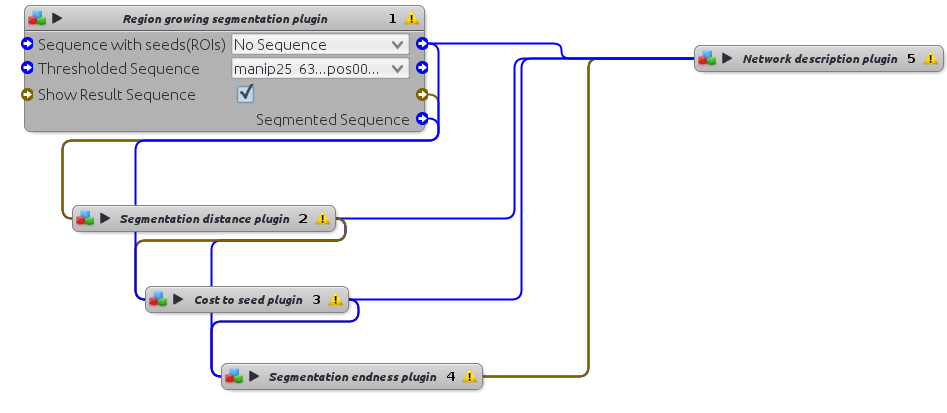
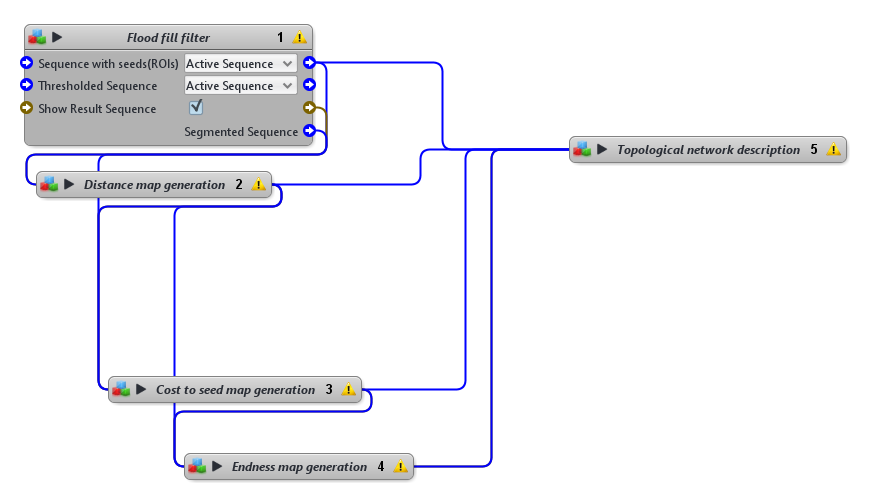
Class Renaming for better organization
Using Generator->GenerationPlugin naming pattern.

Changed region(s): [[0.0, 0.0, 1.0, 0.9588]]

diff --git a/Topological Network Description/src/plugins/danyfel80/topologicalnetworkdescription/TopologicalNetworkDescriptionFrameworkPlugin.java b/Topological Network Description/src/plugins/danyfel80/topologicalnetworkdescription/TopologicalNetworkDescriptionFrameworkPlugin.java
@@ -2,12 +2,12 @@ package plugins.danyfel80.topologicalnetworkdescription;
 
 import java.util.List;
 
-import algorithms.danyfel80.topologicalnetworkdescription.CostToSeedCalculator;
-import algorithms.danyfel80.topologicalnetworkdescription.EndnessCalculator;
-import algorithms.danyfel80.topologicalnetworkdescription.NetworkDescriptionConstructor;
-import algorithms.danyfel80.topologicalnetworkdescription.RegionGrowingSegmenter;
-import algorithms.danyfel80.topologicalnetworkdescription.SegmentDistanceCalcultator;
-import algorithms.danyfel80.topologicalnetworkdescription.Thresholder;
+import algorithms.danyfel80.topologicalnetworkdescription.CostToSeedMapGenerator;
+import algorithms.danyfel80.topologicalnetworkdescription.EndnessMapGenerator;
+import algorithms.danyfel80.topologicalnetworkdescription.TopologicalNetworkDescriptor;
+import algorithms.danyfel80.topologicalnetworkdescription.FloodFillFilter;
+import algorithms.danyfel80.topologicalnetworkdescription.DistanceMapGenerator;
+import algorithms.danyfel80.topologicalnetworkdescription.ThresholdingSegmenter;
 import icy.gui.dialog.MessageDialog;
 import icy.roi.ROI;
 import icy.sequence.Sequence;
@@ -23,7 +23,7 @@ import plugins.kernel.roi.roi2d.ROI2DPoint;
  * 
  * @author Daniel Felipe Gonzalez Obando
  */
-public class TopologicalNetworkDescription extends EzPlug {
+public class TopologicalNetworkDescriptionFrameworkPlugin extends EzPlug {
 
   private EzVarSequence sequenceIn                      = new EzVarSequence(
       "Sequence");
@@ -84,7 +84,7 @@ public class TopologicalNetworkDescription extends EzPlug {
 
     // Get threshold image sequence
     cpu.start();
-    Sequence threshedSequence = Thresholder.process(sequence, threshold);
+    Sequence threshedSequence = ThresholdingSegmenter.process(sequence, threshold);
     cpu.stop();
     addSequence(threshedSequence);
     // MessageDialog.showDialog("Result Threshold", "Threshold Execution time :
@@ -96,7 +96,7 @@ public class TopologicalNetworkDescription extends EzPlug {
     cpu.start();
     Sequence ccLabelsSequence = new Sequence(threshedSequence.getName() + "_LabeledConnectedComponents");
     @SuppressWarnings("unchecked")
-    Sequence segmentedSequence = RegionGrowingSegmenter
+    Sequence segmentedSequence = FloodFillFilter
         .process(threshedSequence, (List<ROI2DPoint>) seeds, ccLabelsSequence);
     cpu.stop();
     addSequence(segmentedSequence);
@@ -108,7 +108,7 @@ public class TopologicalNetworkDescription extends EzPlug {
 
     // Get distance map sequence
     cpu.start();
-    SegmentDistanceCalcultator sdc = new SegmentDistanceCalcultator(
+    DistanceMapGenerator sdc = new DistanceMapGenerator(
         segmentedSequence);
     Sequence squaredDistanceMapSequence = sdc.process();
     Sequence distanceMapSequence = sdc.getDistanceMap();
@@ -126,7 +126,7 @@ public class TopologicalNetworkDescription extends EzPlug {
     // Get cost function to seeds
     cpu.start();
     @SuppressWarnings("unchecked")
-    CostToSeedCalculator ctsc = new CostToSeedCalculator(
+    CostToSeedMapGenerator ctsc = new CostToSeedMapGenerator(
         invertedDistanceMapSequence, (List<ROI2DPoint>) seeds,
         inLevelChangeWeightMultiplier.getValue(), inDirectionChangeWeightMultiplier.getValue());
     Sequence costFunctionToSeedSequence = ctsc.process();
@@ -143,7 +143,7 @@ public class TopologicalNetworkDescription extends EzPlug {
 
     // Get endness image
     cpu.start();
-    Sequence endnessSequence = EndnessCalculator
+    Sequence endnessSequence = EndnessMapGenerator
         .process(squaredDistanceMapSequence, costFunctionToSeedSequence);
     cpu.stop();
     addSequence(endnessSequence);
@@ -154,7 +154,7 @@ public class TopologicalNetworkDescription extends EzPlug {
 
     // Get sequence description graph
     cpu.start();
-    NetworkDescriptionConstructor ndc = new NetworkDescriptionConstructor(
+    TopologicalNetworkDescriptor ndc = new TopologicalNetworkDescriptor(
         endnessSequence, minimumSpanningTreeSequence,
         squaredDistanceMapSequence, inMinLabelingRadius.getValue(),
         inLabelingRadiusScale.getValue());

diff --git a/Topological Network Description/src/plugins/danyfel80/topologicalnetworkdescription/specific/CostToSeedMapGenerationPlugin.java b/Topological Network Description/src/plugins/danyfel80/topologicalnetworkdescription/specific/CostToSeedMapGenerationPlugin.java
@@ -2,7 +2,7 @@ package plugins.danyfel80.topologicalnetworkdescription.specific;
 
 import java.util.List;
 
-import algorithms.danyfel80.topologicalnetworkdescription.CostToSeedCalculator;
+import algorithms.danyfel80.topologicalnetworkdescription.CostToSeedMapGenerator;
 import icy.gui.dialog.MessageDialog;
 import icy.roi.ROI;
 import icy.sequence.Sequence;
@@ -15,7 +15,7 @@ import plugins.adufour.ezplug.EzVarDouble;
 import plugins.adufour.ezplug.EzVarSequence;
 import plugins.kernel.roi.roi2d.ROI2DPoint;
 
-public class CostToSeedPlugin extends EzPlug implements Block {
+public class CostToSeedMapGenerationPlugin extends EzPlug implements Block {
 
 	private EzVarSequence inputOriginalSequence = new EzVarSequence("Sequence with seeds(ROIs)");
 	private EzVarSequence inputInvertedDistanceMapSequence = new EzVarSequence("Inverted Distance Map");
@@ -70,7 +70,7 @@ public class CostToSeedPlugin extends EzPlug implements Block {
 		double levelChangeWeightMultiplier = inputLevelChangeWeightMultiplier.getValue();
 		double directionChangeWeightMultiplier = inputDirectionChangeWeightMultiplier.getValue();
 		@SuppressWarnings("unchecked")
-		CostToSeedCalculator ctsc = new CostToSeedCalculator(invertedDistanceMapSequence, (List<ROI2DPoint>) seeds, levelChangeWeightMultiplier, directionChangeWeightMultiplier);
+		CostToSeedMapGenerator ctsc = new CostToSeedMapGenerator(invertedDistanceMapSequence, (List<ROI2DPoint>) seeds, levelChangeWeightMultiplier, directionChangeWeightMultiplier);
 		Sequence costFunctionToSeedSequence = ctsc.process();
 		Sequence minimumSpanningTreeSequence = ctsc.getMinimumSpaningTree();
 

diff --git a/Topological Network Description/src/plugins/danyfel80/topologicalnetworkdescription/specific/TopologicalNetworkDescriptionPlugin.java b/Topological Network Description/src/plugins/danyfel80/topologicalnetworkdescription/specific/TopologicalNetworkDescriptionPlugin.java
@@ -11,7 +11,7 @@ import org.jgrapht.graph.DefaultDirectedGraph;
 import org.jgrapht.graph.DefaultEdge;
 
 import algorithms.danyfel80.networktopology.analysis.GraphAnalysis;
-import algorithms.danyfel80.topologicalnetworkdescription.NetworkDescriptionConstructor;
+import algorithms.danyfel80.topologicalnetworkdescription.TopologicalNetworkDescriptor;
 import icy.gui.dialog.MessageDialog;
 import icy.sequence.Sequence;
 import icy.system.profile.CPUMonitor;
@@ -26,7 +26,7 @@ import plugins.adufour.vars.lang.Var;
 import plugins.danyfel80.topologicalnetworkdescription.overlays.Forest3DOverlay;
 import plugins.kernel.roi.roi2d.ROI2DLine;
 
-public class NetworkDescriptionPlugin extends EzPlug implements Block {
+public class TopologicalNetworkDescriptionPlugin extends EzPlug implements Block {
 
 	private EzVarSequence inputOriginalSequence = new EzVarSequence("Sequence with seeds(ROIs)");
 	private EzVarSequence inputEndnessSequence = new EzVarSequence("Endness Map");
@@ -79,7 +79,7 @@ public class NetworkDescriptionPlugin extends EzPlug implements Block {
 		cpu.start();
 
 		// Get sequence description graph
-		NetworkDescriptionConstructor ndc = new NetworkDescriptionConstructor(endnessMapSequence,
+		TopologicalNetworkDescriptor ndc = new TopologicalNetworkDescriptor(endnessMapSequence,
 		    minimumSpanningTreeMapSequence, distanceMapSequence, inputMinRadius.getValue(), inputRadiusScale.getValue());
 		Sequence skeletonSequence = ndc.process(); // skeleton
 		Sequence labelsSequence = ndc.getLabelSequence();

diff --git a/Topological Network Description/src/plugins/danyfel80/topologicalnetworkdescription/specific/FloodFillFilteringPlugin.java b/Topological Network Description/src/plugins/danyfel80/topologicalnetworkdescription/specific/FloodFillFilteringPlugin.java
@@ -2,7 +2,7 @@ package plugins.danyfel80.topologicalnetworkdescription.specific;
 
 import java.util.List;
 
-import algorithms.danyfel80.topologicalnetworkdescription.RegionGrowingSegmenter;
+import algorithms.danyfel80.topologicalnetworkdescription.FloodFillFilter;
 import icy.gui.dialog.MessageDialog;
 import icy.roi.ROI;
 import icy.sequence.Sequence;
@@ -14,7 +14,7 @@ import plugins.adufour.ezplug.EzVarBoolean;
 import plugins.adufour.ezplug.EzVarSequence;
 import plugins.kernel.roi.roi2d.ROI2DPoint;
 
-public class RegionGrowingSegmentationPlugin extends EzPlug implements Block {
+public class FloodFillFilteringPlugin extends EzPlug implements Block {
 
 	private EzVarSequence inputThresholdedSequence = new EzVarSequence("Thresholded Sequence");
 	private EzVarSequence inputSequence = new EzVarSequence("Sequence with seeds(ROIs)");
@@ -57,7 +57,7 @@ public class RegionGrowingSegmentationPlugin extends EzPlug implements Block {
 		// Get segmented image sequence
 		Sequence ccLabelsSequence  = new Sequence(threshedSequence.getName() + "_LabeledConnectedComponents");
 		@SuppressWarnings("unchecked")
-		Sequence segmentedSequence = RegionGrowingSegmenter.process(threshedSequence, (List<ROI2DPoint>) seeds, ccLabelsSequence);
+		Sequence segmentedSequence = FloodFillFilter.process(threshedSequence, (List<ROI2DPoint>) seeds, ccLabelsSequence);
 
 		cpu.stop();
 		if (inputAddResult.getValue()) {

diff --git a/Topological Network Description/src/plugins/danyfel80/topologicalnetworkdescription/specific/DistanceMapGenerationPlugin.java b/Topological Network Description/src/plugins/danyfel80/topologicalnetworkdescription/specific/DistanceMapGenerationPlugin.java
@@ -1,6 +1,6 @@
 package plugins.danyfel80.topologicalnetworkdescription.specific;
 
-import algorithms.danyfel80.topologicalnetworkdescription.SegmentDistanceCalcultator;
+import algorithms.danyfel80.topologicalnetworkdescription.DistanceMapGenerator;
 import icy.gui.dialog.MessageDialog;
 import icy.sequence.Sequence;
 import icy.system.profile.CPUMonitor;
@@ -10,7 +10,7 @@ import plugins.adufour.ezplug.EzPlug;
 import plugins.adufour.ezplug.EzVarBoolean;
 import plugins.adufour.ezplug.EzVarSequence;
 
-public class SegmentationDistancePlugin extends EzPlug implements Block {
+public class DistanceMapGenerationPlugin extends EzPlug implements Block {
 
 	private EzVarSequence inputSegmentedSequence = new EzVarSequence("Segmented Sequence");
 	private EzVarBoolean inputAddResult = new EzVarBoolean("Show Result Sequences", true);
@@ -40,7 +40,7 @@ public class SegmentationDistancePlugin extends EzPlug implements Block {
 		cpu.start();
 
 		// Get distance map sequence
-		SegmentDistanceCalcultator sdc = new SegmentDistanceCalcultator(segmentedSequence);
+		DistanceMapGenerator sdc = new DistanceMapGenerator(segmentedSequence);
 		sdc.process();
 		Sequence squaredDistanceMapSequence = sdc.getSquaredDistanceMap();
 		Sequence distanceMapSequence = sdc.getDistanceMap();

diff --git a/Topological Network Description/src/plugins/danyfel80/topologicalnetworkdescription/specific/ThresholdingSegmentationPlugin.java b/Topological Network Description/src/plugins/danyfel80/topologicalnetworkdescription/specific/ThresholdingSegmentationPlugin.java
@@ -1,6 +1,6 @@
 package plugins.danyfel80.topologicalnetworkdescription.specific;
 
-import algorithms.danyfel80.topologicalnetworkdescription.Thresholder;
+import algorithms.danyfel80.topologicalnetworkdescription.ThresholdingSegmenter;
 import icy.gui.dialog.MessageDialog;
 import icy.sequence.Sequence;
 import icy.sequence.SequenceUtil;
@@ -13,7 +13,7 @@ import plugins.adufour.ezplug.EzVarBoolean;
 import plugins.adufour.ezplug.EzVarInteger;
 import plugins.adufour.ezplug.EzVarSequence;
 
-public class ThresholderPlugin extends EzPlug implements Block {
+public class ThresholdingSegmentationPlugin extends EzPlug implements Block {
 
 	private EzVarSequence inputSequence = new EzVarSequence("Input Sequence");
 	private EzVarInteger inputThreshold = new EzVarInteger("Threshold");
@@ -46,7 +46,7 @@ public class ThresholderPlugin extends EzPlug implements Block {
 		// Get threshold image sequence
 		Sequence shortSequence = SequenceUtil.convertToType(sequence, DataType.SHORT, false);
 		shortSequence.setName(sequence.getName());
-		Sequence threshedSequence = Thresholder.process(shortSequence, threshold);
+		Sequence threshedSequence = ThresholdingSegmenter.process(shortSequence, threshold);
 
 		cpu.stop();
 		if (inputAddResult.getValue()) {

diff --git a/Topological Network Description/src/plugins/danyfel80/topologicalnetworkdescription/specific/EndnessMapGenerationPlugin.java b/Topological Network Description/src/plugins/danyfel80/topologicalnetworkdescription/specific/EndnessMapGenerationPlugin.java
@@ -1,6 +1,6 @@
 package plugins.danyfel80.topologicalnetworkdescription.specific;
 
-import algorithms.danyfel80.topologicalnetworkdescription.EndnessCalculator;
+import algorithms.danyfel80.topologicalnetworkdescription.EndnessMapGenerator;
 import icy.gui.dialog.MessageDialog;
 import icy.sequence.Sequence;
 import icy.system.profile.CPUMonitor;
@@ -10,7 +10,7 @@ import plugins.adufour.ezplug.EzPlug;
 import plugins.adufour.ezplug.EzVarBoolean;
 import plugins.adufour.ezplug.EzVarSequence;
 
-public class SegmentationEndnessPlugin extends EzPlug implements Block {
+public class EndnessMapGenerationPlugin extends EzPlug implements Block {
 
 	private EzVarSequence inputCostToSeedSequence = new EzVarSequence("Cost To Seed");
 	private EzVarSequence inputSquaredDistanceMapSequence = new EzVarSequence("Squared Distance Map");
@@ -43,7 +43,7 @@ public class SegmentationEndnessPlugin extends EzPlug implements Block {
 		cpu.start();
 
 		// Get endness image
-		Sequence endnessSequence = EndnessCalculator.process(squaredDistanceMapSequence, costFunctionToSeedSequence);
+		Sequence endnessSequence = EndnessMapGenerator.process(squaredDistanceMapSequence, costFunctionToSeedSequence);
 
 		cpu.stop();
 		if (inputAddResult.getValue()) {

diff --git a/Topological Network Description/src/algorithms/danyfel80/topologicalnetworkdescription/TopologicalNetworkDescriptor.java b/Topological Network Description/src/algorithms/danyfel80/topologicalnetworkdescription/TopologicalNetworkDescriptor.java
@@ -26,7 +26,7 @@ import icy.type.point.Point5D;
  * @author Daniel Felipe Gonzalez Obando
  *
  */
-public class NetworkDescriptionConstructor {
+public class TopologicalNetworkDescriptor {
 
 	public static class CostElement implements Comparable<CostElement> {
 		private final Double cost;
@@ -72,7 +72,7 @@ public class NetworkDescriptionConstructor {
 	private int minLabelingSphereRadius;
 	private double radiusScale = 2.5;
 
-	public NetworkDescriptionConstructor(Sequence endnessSequence, Sequence minimumSpaningTree,
+	public TopologicalNetworkDescriptor(Sequence endnessSequence, Sequence minimumSpaningTree,
 	    Sequence squaredDistanceMap, int minLabelingSphereRadius, double radiusScale) {
 		this.endnessSequence = endnessSequence;
 		this.minimumSpanningTree = minimumSpaningTree;

diff --git a/Topological Network Description/src/algorithms/danyfel80/topologicalnetworkdescription/CostToSeedMapGenerator.java b/Topological Network Description/src/algorithms/danyfel80/topologicalnetworkdescription/CostToSeedMapGenerator.java
@@ -19,7 +19,7 @@ import plugins.kernel.roi.roi2d.ROI2DPoint;
  * 
  * @author Daniel Felipe Gonzalez Obando
  */
-public class CostToSeedCalculator {
+public class CostToSeedMapGenerator {
 
   public static class CostElement implements Comparable<CostElement> {
     private final double   cost;
@@ -62,7 +62,7 @@ public class CostToSeedCalculator {
   private double           levelChangeWeightMultiplier;
   private double					 directionChangeWeightMultiplier;
 
-  public CostToSeedCalculator(Sequence invertedDistanceMapSequence,
+  public CostToSeedMapGenerator(Sequence invertedDistanceMapSequence,
       List<ROI2DPoint> seeds, double levelChangeWeightMultiplier, 
       double directionChangeWeightMultiplier) {
     super();

diff --git a/Topological Network Description/src/algorithms/danyfel80/topologicalnetworkdescription/DistanceMapGenerator.java b/Topological Network Description/src/algorithms/danyfel80/topologicalnetworkdescription/DistanceMapGenerator.java
@@ -10,14 +10,14 @@ import plugins.vannary.morphomaths.MorphOp;
  * 
  * @author Daniel Felipe Gonzalez Obando
  */
-public class SegmentDistanceCalcultator {
+public class DistanceMapGenerator {
 
 	private Sequence segmentedSequence;
 	private Sequence distanceMap;
 	private Sequence squaredDistanceMap;
 	private Sequence invertedSquaredDistanceMap;
 
-	public SegmentDistanceCalcultator(Sequence segmentedSequence) {
+	public DistanceMapGenerator(Sequence segmentedSequence) {
 		this.segmentedSequence = segmentedSequence;
 		this.squaredDistanceMap = null;
 		this.distanceMap = null;

diff --git a/Topological Network Description/src/algorithms/danyfel80/topologicalnetworkdescription/FloodFillFilter.java b/Topological Network Description/src/algorithms/danyfel80/topologicalnetworkdescription/FloodFillFilter.java
@@ -19,7 +19,7 @@ import plugins.kernel.roi.roi2d.ROI2DPoint;
  * 
  * @author Daniel Felipe Gonzalez Obando
  */
-public class RegionGrowingSegmenter {
+public class FloodFillFilter {
 
 	public static Sequence process(Sequence thresholdedSequence, List<ROI2DPoint> seeds, Sequence labelsSequence) {
 		thresholdedSequence = SequenceUtil.convertToType(thresholdedSequence, DataType.DOUBLE, false);

diff --git a/Topological Network Description/src/algorithms/danyfel80/topologicalnetworkdescription/EndnessMapGenerator.java b/Topological Network Description/src/algorithms/danyfel80/topologicalnetworkdescription/EndnessMapGenerator.java
@@ -8,7 +8,7 @@ import icy.type.DataType;
 /**
  * @author Daniel Felipe Gonzalez Obando
  */
-public class EndnessCalculator {
+public class EndnessMapGenerator {
 
 	public static Sequence process(Sequence squaredDistanceMapSequence, Sequence costFunctionToSeedSequence) {
 		int sizeX = squaredDistanceMapSequence.getSizeX();
